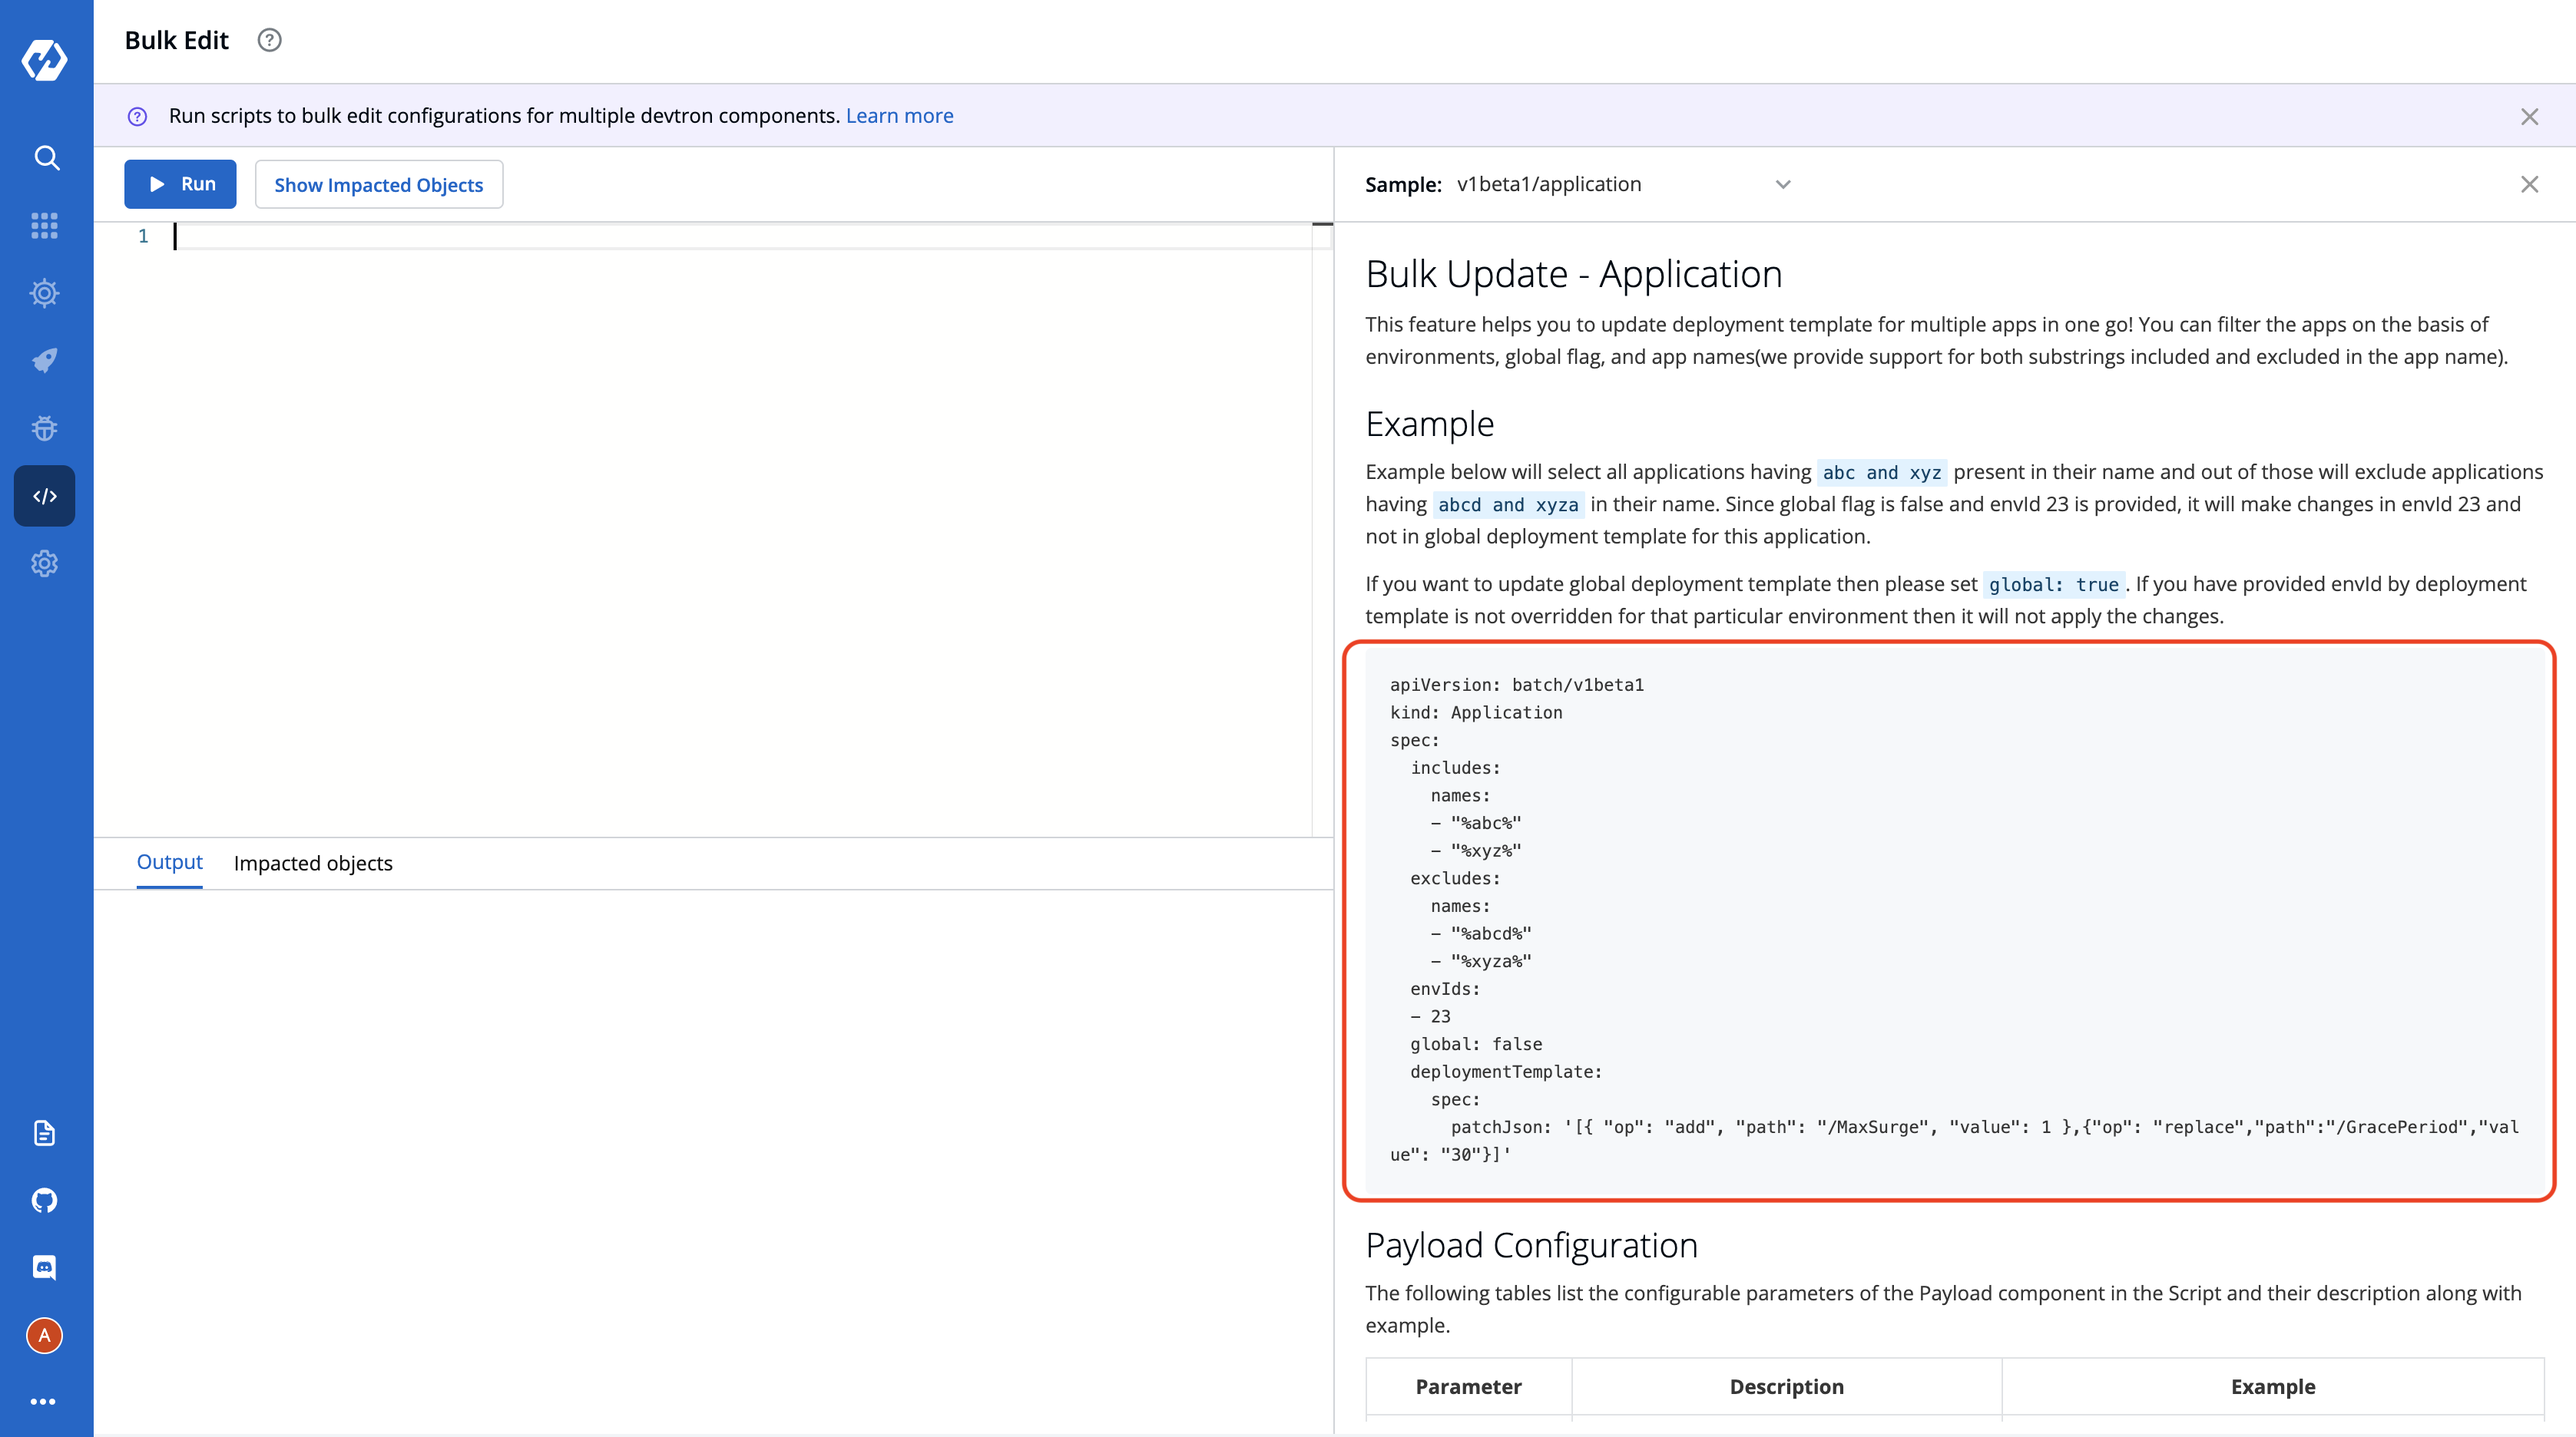
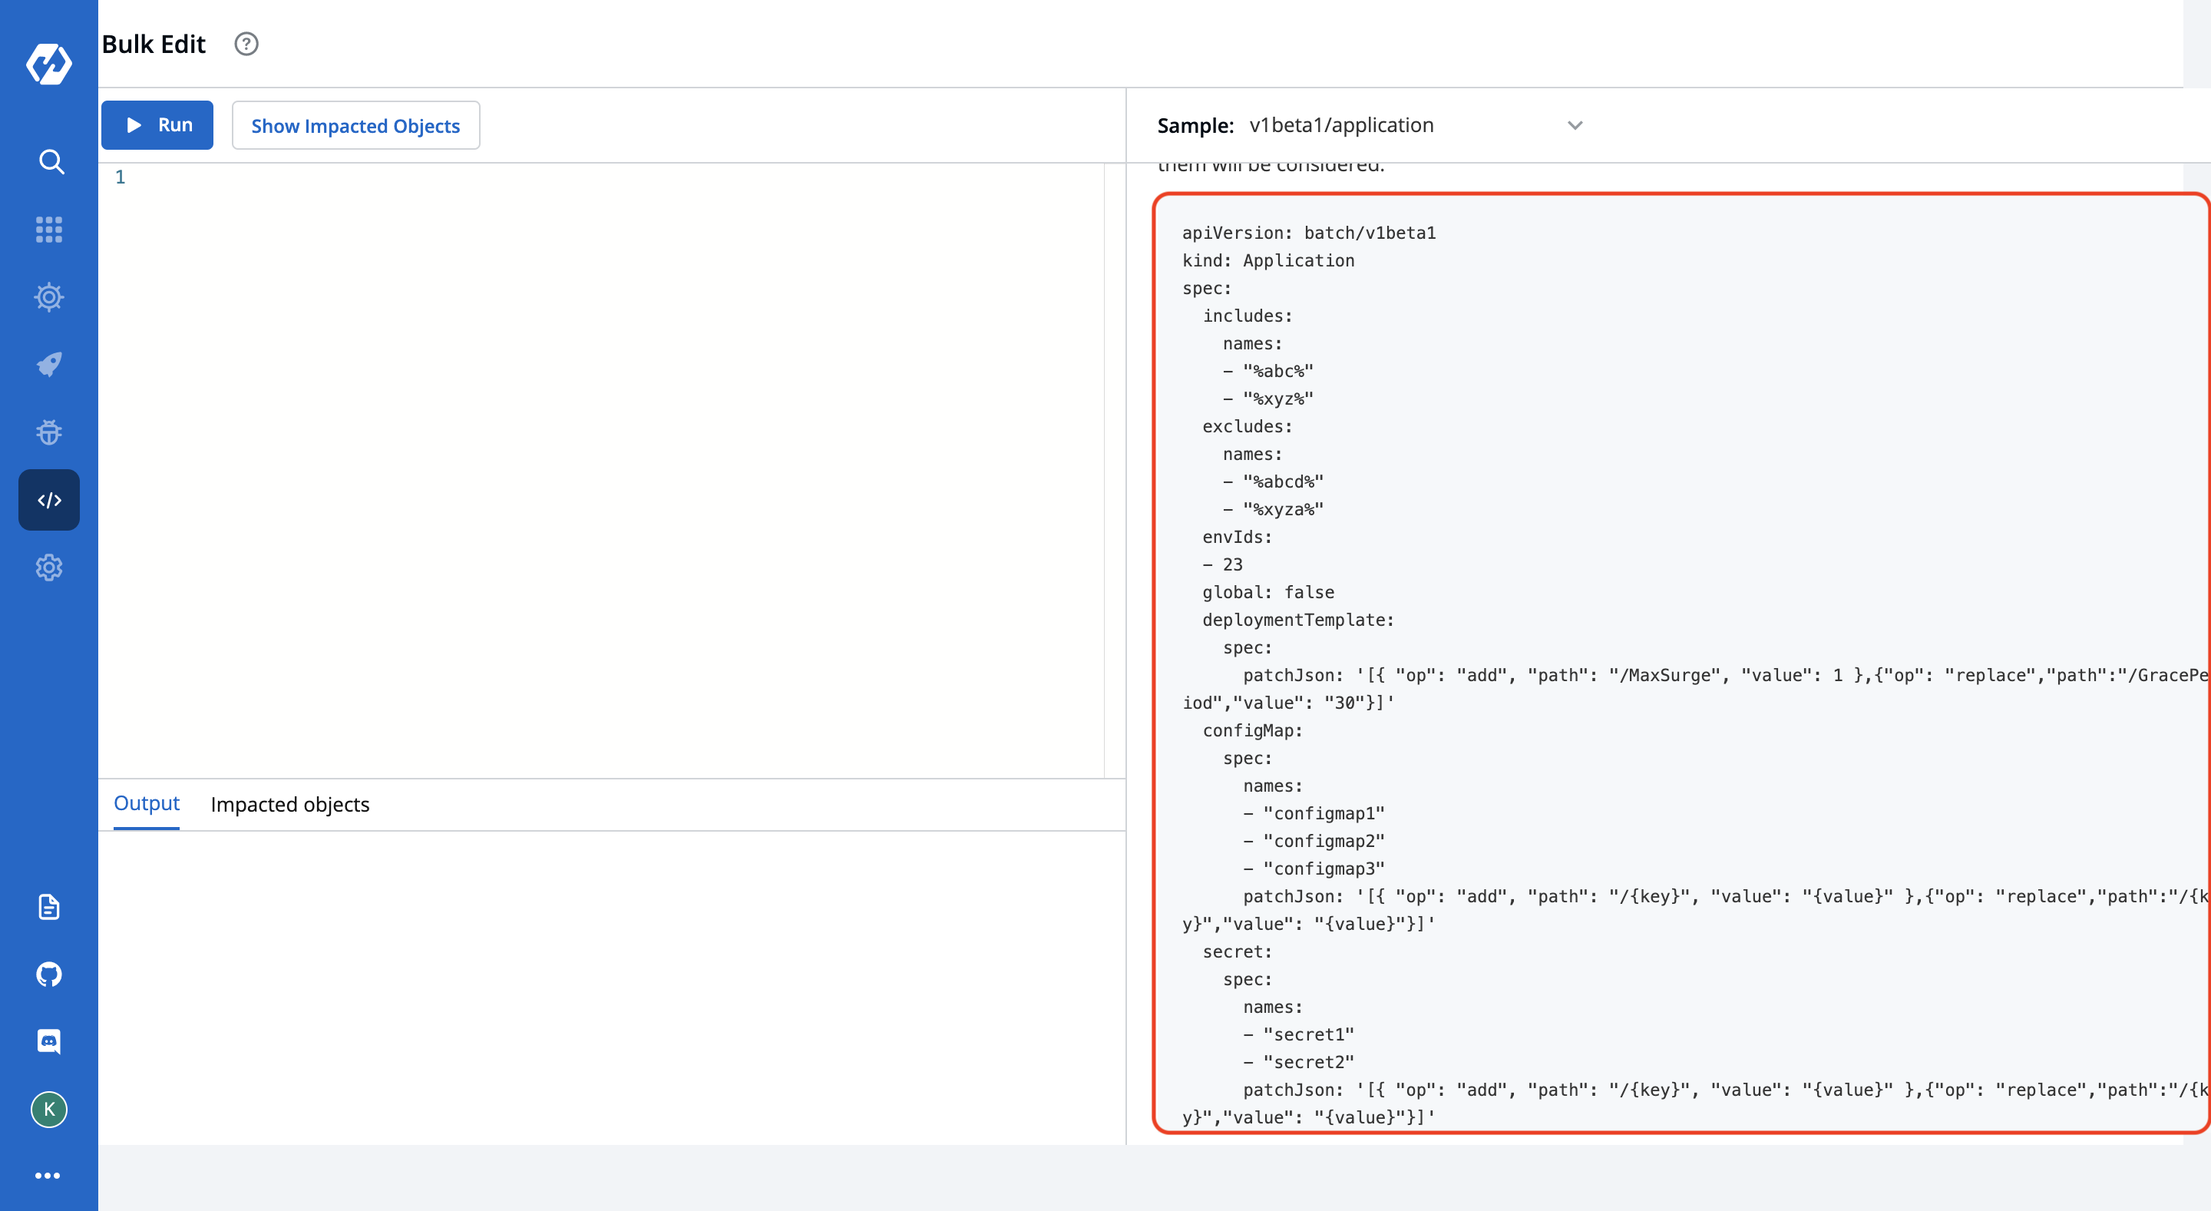
updated bulk update docs

diff --git a/docs/user-guide/bulk-update.md b/docs/user-guide/bulk-update.md
@@ -33,8 +33,8 @@ Bulk edit is currently supported for:
 ### Example
 Example below will select all applications having `abc and xyz` present in their name and out of those will exclude applications having `abcd and xyza` in their name. Since global flag is false and envId 23 is provided, it will make changes in envId 23 and not in global deployment template for this application.
 
-If you want to update globally then please set `global: true`. If you have provided envId by deployment template, configMap or secret is not overridden for that particular environment then it will not apply the changes.
-Also, of all the provided names of configMaps/secrets, for every app & environment override only the name that are present in them will be considered.
+If you want to update globally then please set `global: true`. If you have provided an envId but deployment template, configMap or secret is not overridden for that particular environment then it will not apply the changes.
+Also, of all the provided names of configMaps/secrets, for every app & environment override only the names that are present in them will be considered.
 
 
 ### Sample Script
@@ -61,17 +61,17 @@ spec:
     spec:
       patchJson: '[{ "op": "add", "path": "/MaxSurge", "value": 1 },{"op": "replace","path":"/GracePeriod","value": "30"}]'
   configMap:
-    names:
-    - "configmap1"
-    - "configmap2"
-    - "configmap3"
     spec:
+      names:
+      - "configmap1"
+      - "configmap2"
+      - "configmap3"
       patchJson: '[{ "op": "add", "path": "/{key}", "value": "{value}" },{"op": "replace","path":"/{key}","value": "{value}"}]'
   secret:
-    names:
-    - "secret1"
-    - "secret2"
     spec:
+      names:
+      - "secret1"
+      - "secret2"
       patchJson: '[{ "op": "add", "path": "/{key}", "value": "{value}" },{"op": "replace","path":"/{key}","value": "{value}"}]'
 ```      
 
